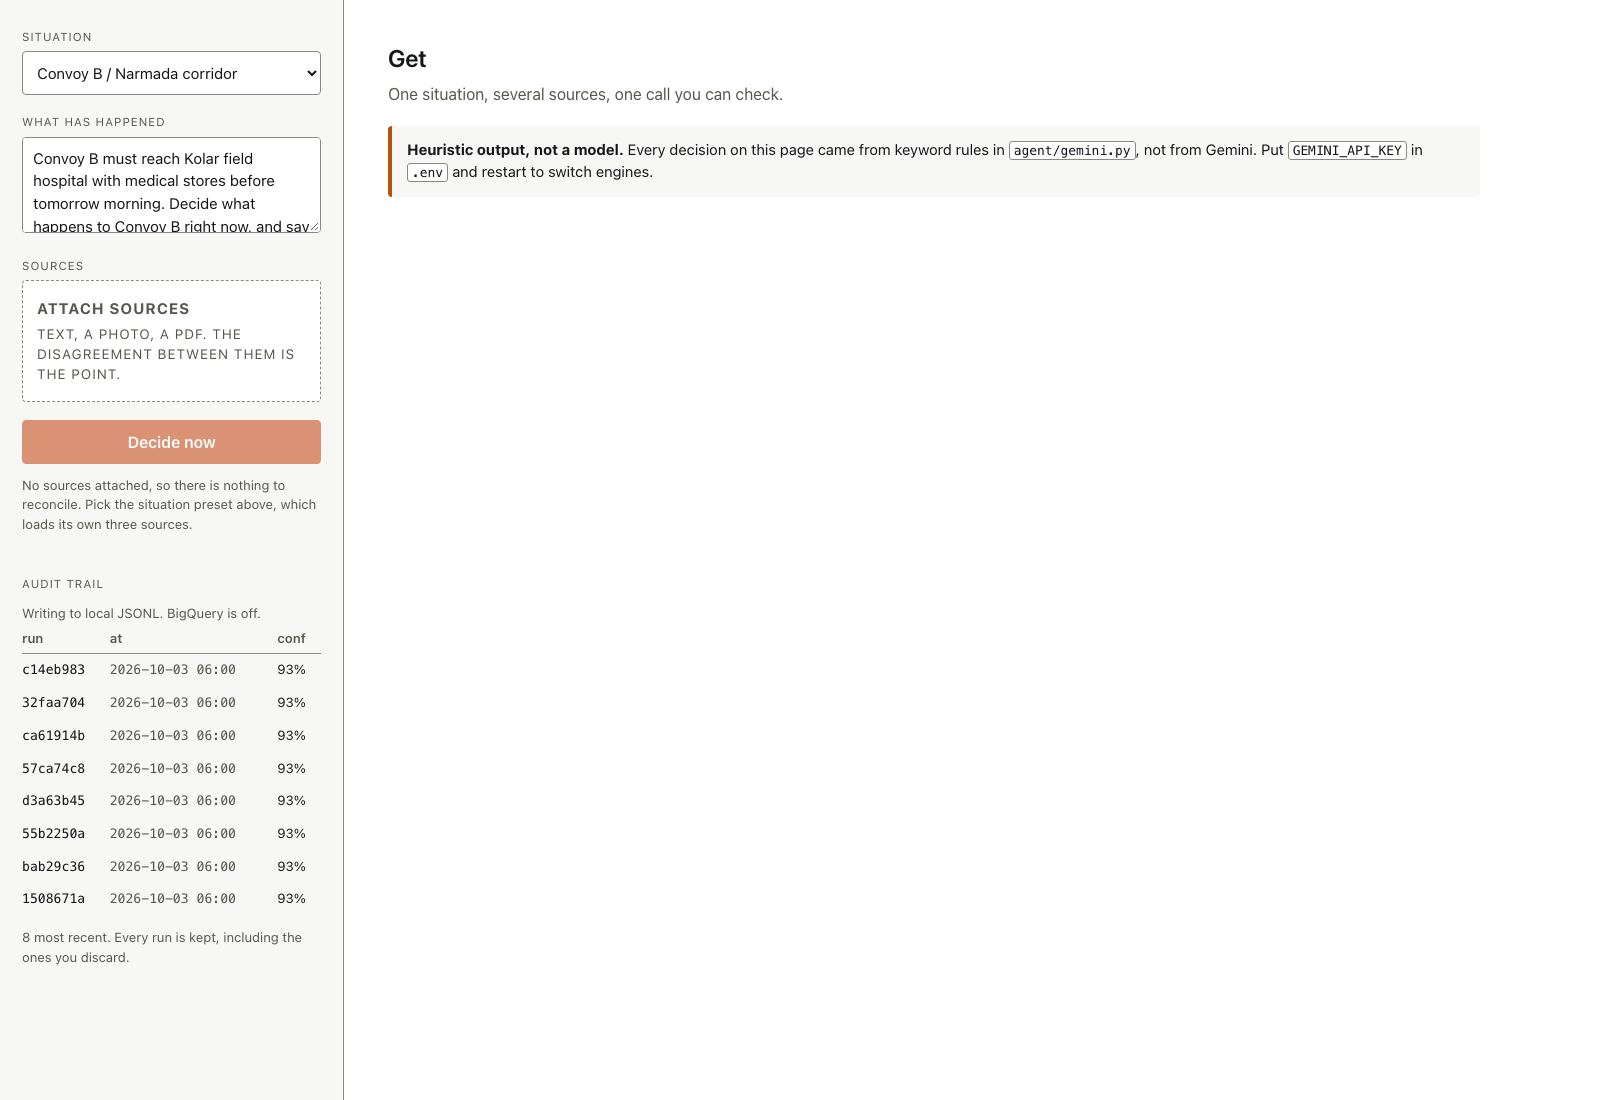
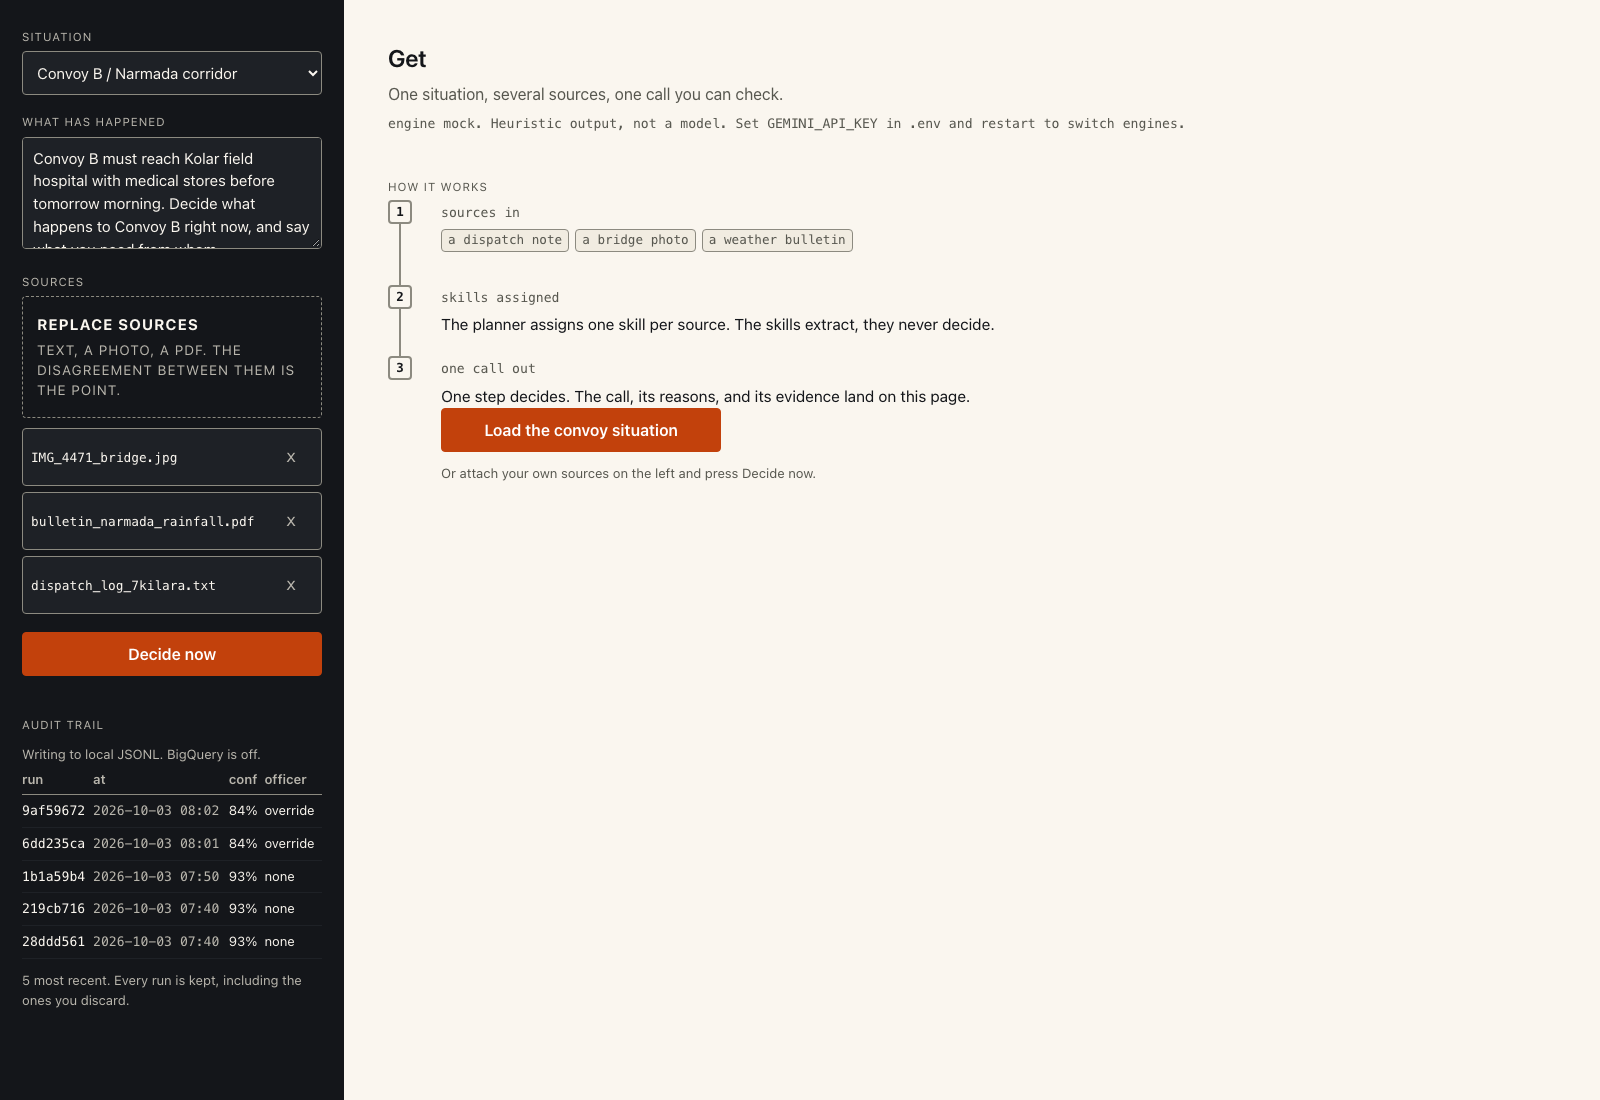
Dispatch console direction: ink rail, serif verdicts, warm paper, numbered empty state

Changed region(s): [[0.0, 0.0, 0.875, 1.0]]

diff --git a/web/src/styles.css b/web/src/styles.css
@@ -1,8 +1,10 @@
 :root {
-  --sb-page: #ffffff;
-  --sb-surface: #f7f7f5;
+  --sb-page: #faf6ef;
+  --sb-surface: #f1ece1;
   --sb-ink: #14161a;
+  --sb-ink-2: #1e2126;
   --sb-ink-muted: #57574f;
+  --sb-muted-light: #b9b6ad;
   --sb-hairline: #8c8a80;
   --sb-accent: #c2410c;
   --sb-accent-press: #9a3412;
@@ -17,6 +19,7 @@
   --sb-mono: ui-monospace, SFMono-Regular, 'SF Mono', Menlo, Consolas, monospace;
   --sb-sans: -apple-system, BlinkMacSystemFont, 'Segoe UI', Roboto, Helvetica, Arial,
     sans-serif;
+  --sb-serif: Georgia, 'Times New Roman', serif;
 
   --sb-rail-w: 344px;
 }
@@ -82,13 +85,84 @@ body {
 }
 
 .rail {
-  border-right: 1px solid var(--sb-hairline);
-  background: var(--sb-surface);
+  border-right: none;
+  background: var(--sb-ink);
+  color: var(--sb-page);
   padding: 28px 22px 40px;
   overflow-y: auto;
   max-height: 100vh;
   position: sticky;
   top: 0;
+}
+
+.rail .eyebrow,
+.rail .field > label,
+.rail .field > .label {
+  color: var(--sb-muted-light);
+}
+
+.rail .hint {
+  color: var(--sb-muted-light);
+}
+
+.rail select,
+.rail textarea {
+  background: var(--sb-ink-2);
+  border-color: var(--sb-hairline);
+  color: var(--sb-page);
+}
+
+.rail select:focus,
+.rail textarea:focus,
+.rail input:focus,
+.rail :focus-visible {
+  outline-color: var(--sb-page);
+}
+
+.rail .dropzone {
+  background: transparent;
+  border-color: var(--sb-hairline);
+}
+
+.rail .dropzone strong {
+  color: var(--sb-page);
+}
+
+.rail .dropzone span {
+  color: var(--sb-muted-light);
+}
+
+.rail .filelist li {
+  background: var(--sb-ink-2);
+  border-color: var(--sb-hairline);
+  color: var(--sb-page);
+}
+
+.rail .filelist li button {
+  color: var(--sb-muted-light);
+}
+
+.rail .filelist li button:hover {
+  color: var(--sb-page);
+}
+
+.rail .audit th {
+  color: var(--sb-muted-light);
+  border-bottom-color: var(--sb-hairline);
+}
+
+.rail .audit td {
+  border-bottom-color: var(--sb-ink-2);
+  color: var(--sb-page);
+}
+
+.rail .audit td.at {
+  color: var(--sb-muted-light);
+}
+
+.rail .empty {
+  color: var(--sb-page);
+  border-color: var(--sb-ink-2);
 }
 
 .main {
@@ -396,6 +470,7 @@ button.quiet-solid:disabled {
 }
 
 .call .call-text {
+  font-family: var(--sb-serif);
   font-size: 2.6rem;
   line-height: 1.18;
   font-weight: 650;
@@ -550,6 +625,7 @@ button.quiet-solid:disabled {
 }
 
 .trace .claim {
+  font-family: var(--sb-serif);
   font-size: 1.04rem;
   font-weight: 600;
   margin: 0 0 6px;

diff --git a/web/src/App.jsx b/web/src/App.jsx
@@ -29,19 +29,41 @@ function EmptyState({ onLoad }) {
       <p className="eyebrow" id="empty-heading">
         How it works
       </p>
-      <p className="srclist" aria-label="Example sources">
-        <span>a dispatch note</span>
-        <span>a bridge photo</span>
-        <span>a weather bulletin</span>
-      </p>
-      <p className="call-action">
-        Each source gets its own skill. The planner assigns, the skills extract, one step
-        decides. The call, its reasons, and its evidence land on this page.
-      </p>
-      <button className="primary empty-cta" type="button" onClick={onLoad}>
-        Load the convoy situation
-      </button>
-      <p className="hint">Or attach your own sources on the left and press Decide now.</p>
+      <ol className="trace">
+        <li>
+          <span className="num" aria-hidden="true">
+            1
+          </span>
+          <p className="skill">sources in</p>
+          <p className="srclist" aria-label="Example sources">
+            <span>a dispatch note</span>
+            <span>a bridge photo</span>
+            <span>a weather bulletin</span>
+          </p>
+        </li>
+        <li>
+          <span className="num" aria-hidden="true">
+            2
+          </span>
+          <p className="skill">skills assigned</p>
+          <p className="because">
+            The planner assigns one skill per source. The skills extract, they never decide.
+          </p>
+        </li>
+        <li>
+          <span className="num" aria-hidden="true">
+            3
+          </span>
+          <p className="skill">one call out</p>
+          <p className="because">
+            One step decides. The call, its reasons, and its evidence land on this page.
+          </p>
+          <button className="primary empty-cta" type="button" onClick={onLoad}>
+            Load the convoy situation
+          </button>
+          <p className="hint">Or attach your own sources on the left and press Decide now.</p>
+        </li>
+      </ol>
     </section>
   )
 }

diff --git a/tests/test_gate_web.py b/tests/test_gate_web.py
@@ -27,6 +27,9 @@ TEXT_ROLES = [
     ("#officer-note", "officer note field"),
     (".officer .quiet", "officer accept button"),
     (".officer .quiet-solid", "officer override button"),
+    (".rail .eyebrow", "rail label"),
+    (".rail .hint", "rail hint"),
+    (".audit td", "audit cell"),
 ]
 
 PROBE = """(sel) => {

diff --git a/docs/audits/audit-007-2026-10-03.md b/docs/audits/audit-007-2026-10-03.md
@@ -1,0 +1,60 @@
+# Design review 007
+
+Date: 2026-10-03
+Scope: the landing state as a whole, judged on identity rather than compliance. All
+previous gates still pass; that is the problem. A page can clear every filter and still be
+a void. This audit is about the void.
+Mode: audit after. Nothing below has been fixed yet.
+
+## Findings
+
+### 1. The landing has no identity — R-20 — MEDIUM
+
+Run the swap test from the core rule: cover the word "Get" and ask what product this is. The
+answer is any dashboard. Flat white page, thin grey borders, system sans, one orange button,
+mono chips. The decision view earned an identity (the trace rail, the accent rule, the
+provenance typography); none of it reaches the landing. A first-time judge meets the product
+here, and here it has nothing to say about itself.
+
+### 2. The type has no character — R-06 — MEDIUM
+
+Everything is the platform sans at various sizes. The call is larger sans, the labels are
+smaller caps sans, the evidence is regular sans. Size is doing all the work that voice should
+share. A console whose whole argument is trustworthiness should not sound like a settings
+page. The fix is a pairing with a stated reason, from fonts already on the machine so the
+demo never depends on a network font: a serif with editorial weight for the call and the
+chain claims, sans for interface, mono for machine provenance (which is already the rule).
+
+### 3. The empty state is a flat stack — R-05, RHYTHM — MEDIUM
+
+Eyebrow, chips, paragraph, button, hint, each full width, each the same composition. The page
+declares RHYTHM 2 and ships uniformity. The empty state is the one place on this screen
+allowed to compose: numbered steps on the rail motif (01 sources in, 02 skills assigned,
+03 one call out), so arrival teaches the pipeline by shape, not by paragraph.
+
+### 4. The sidebar shouts, the content whispers — R-31 — MEDIUM
+
+SITUATION, WHAT HAS HAPPENED, SOURCES, AUDIT TRAIL: four uppercase letterspaced labels
+against a 24px product name and a quiet tagline. The loudest text on arrival is furniture.
+Either the labels drop to sentence case at UI size, or the rail stops pretending to be
+furniture and commits to being an instrument panel. Halfway is what it is now.
+
+### 5. The paper is not paper — R-29 — LOW
+
+`--sb-page` is `#FFFFFF`, clinical white, with `#F7F7F5` one step away. The direction says
+warm-neutral paper and the screen says hospital. Warm the page until it reads warm
+(`#FAF6EF` region), deepen the surface to hold the gap, re-measure the fourteen roles. The
+numbers will still pass; ink on warm paper passes further than ink on white.
+
+### 6. The accent never gets its moment — R-31 — LOW
+
+Orange currently means buttons. On a landing with no decision yet, the accent should mark the
+single thing that matters: the CTA and one rule beside it. Everything else stays ink and
+muted. This is already the rule; the landing just never applies it.
+
+## Not findings
+
+- The mock-status line is correctly quiet and stays verbatim.
+- The dropzone sentence stays verbatim. It is still the best sentence on the page.
+- No gradients, no glass, no icons, no illustrations are proposed or wanted. The way out of
+  sterile is voice and composition, not decoration.

diff --git a/DESIGN.md b/DESIGN.md
@@ -35,12 +35,15 @@ Warm-neutral paper, one accent, functional state colors.
 
 | Role | Hex | Why |
 | --- | --- | --- |
-| Page | `#FFFFFF` | the officer may be reading in daylight or in a vehicle |
-| Raised surface | `#F7F7F5` | warm neutral, so the accent reads as a signal rather than as part of the greys |
-| Ink | `#14161A` | 18.11:1 on page, the decision sentence sits here |
-| Muted ink | `#57574F` | 7.29:1, captions and labels stay readable |
-| Hairline | `#8C8A80` | 3.46:1, meets the 3:1 non-text bar for input borders |
-| Accent | `#C2410C` | high-visibility orange, 5.18:1 on page and 4.83:1 on the raised surface |
+| Page | `#FAF6EF` | warm paper that reads warm, not clinical; the officer may be reading in daylight or in a vehicle |
+| Raised surface | `#F1ECE1` | deepened to hold the gap against the warmer page |
+| Ink | `#14161A` | 16.81:1 on page, the decision sentence sits here |
+| Console rail | `#14161A` | the sidebar commits to being an instrument panel, not furniture |
+| Rail ink | `#1E2126` | input and file-row fill on the rail, one step above the rail itself |
+| Muted ink | `#57574F` | 6.77:1 on page, captions and labels stay readable |
+| Muted on rail | `#B9B6AD` | 8.93:1 on the rail, small table text stays legible |
+| Hairline | `#8C8A80` | 3.46:1 on page for input borders; 4.66:1 on rail fill, so one hairline serves both |
+| Accent | `#C2410C` | high-visibility orange, 4.81:1 on page; never set as text on the raised surface |
 
 Accent goes on exactly two things: the decision sentence, and the primary control. Nowhere
 else. An accent on every element is not an accent.
@@ -60,8 +63,10 @@ alone.
 
 ## Typography
 
-Prose in the platform sans, because the officer is reading sentences and the default is
-already good at that.
+Three voices, each with one job. Sans for interface, because the officer operates controls
+and the default is already good at that. Serif (Georgia, system stock, never a network
+font) for the call and the chain claims, because a verdict should sound editorial, not
+administrative. Trust is a voice as much as a trace.
 
 Monospace is functional, not decorative. It is used for exactly one category: machine
 provenance. Run ids, source ids, latencies, raw skill output keys. That data gets copied
@@ -126,9 +131,9 @@ have. The engine notice sits under the masthead as one muted status line, never 
 Honesty is a line item, not the focal point.
 
 When there is genuinely nothing to run, the main column carries the pitch instead of a void:
-three source chips, one sentence on the pipeline, and a single action that loads the convoy
-situation. The empty state sells nothing and apologizes for nothing; it says what goes in,
-what comes out, and what fills the screen.
+the pipeline taught by shape, three numbered rail steps reusing the trace motif, ending in the
+single action that loads the convoy situation. The empty state sells nothing and apologizes
+for nothing; it says what goes in, what comes out, and what fills the screen.
 
 ## Duty officer
 

diff --git a/docs/audits/audit-008-2026-10-03.md b/docs/audits/audit-008-2026-10-03.md
@@ -1,0 +1,42 @@
+# Design review 008: fix report for audit-007
+
+Date: 2026-10-03
+Scope: all six findings of `audit-007-2026-10-03.md`, direction approved as "dispatch
+console" before any work began.
+
+## What changed
+
+The rail commits. Sidebar is ink (`#14161A`) with paper text and a lighter muted
+(`#B9B6AD`, 8.93:1) for labels, hints, and table metadata. Inputs and file rows sit one
+step up (`#1E2126`) with the same hairline serving both themes (4.66:1 on the rail fill).
+Focus rings go paper inside the rail. The uppercase labels stay, because on an instrument
+panel they read as panel, not shouting. Finding 4 resolved by commitment, not by change.
+
+The call and the chain claims set in Georgia, system stock, zero network dependency. Sans
+keeps the interface, mono keeps machine provenance. A verdict now sounds editorial rather
+than administrative, which is what trust reads as.
+
+The page warms to `#FAF6EF` with the surface deepened to `#F1ECE1`. Ink and muted clear
+both easily; the accent was never set as text on the surface and still is not.
+
+The empty state teaches by shape: the same numbered rail as the decision view, three steps,
+ending in the single action. Arrival now orients a first-time judge in one glance.
+
+## Delivery Gate
+
+Block 1: R-25 pass on all twenty roles including the three new dark pairs (rail label,
+rail hint, audit cell, worst 8.93:1 against a 4.5 bar). R-03 pass at four widths. R-32
+pass. R-26, R-27, R-34, R-35, R-38 unchanged passes. No new text means R-02, R-16, R-04
+carry over by scan.
+
+Block 2: the serif has its reason written in `DESIGN.md`. Nothing else added. No gradients,
+icons, shadows, badges, glass, patterns.
+
+Block 3: dials unchanged (ENERGY 2 / RHYTHM 2 / MOTION 1). Focal point intact: the call at
+42px serif against 24px product name. Motif now opens the page instead of starting
+mid-scroll.
+
+Block 4: palette extended, not replaced (two new role colors, both measured). No template
+layouts, two radii, specific labels, no buzzwords, no cloning.
+
+Suites: acceptance 43/43, eval PASS, gate 0 issues, screenshots recaptured.
